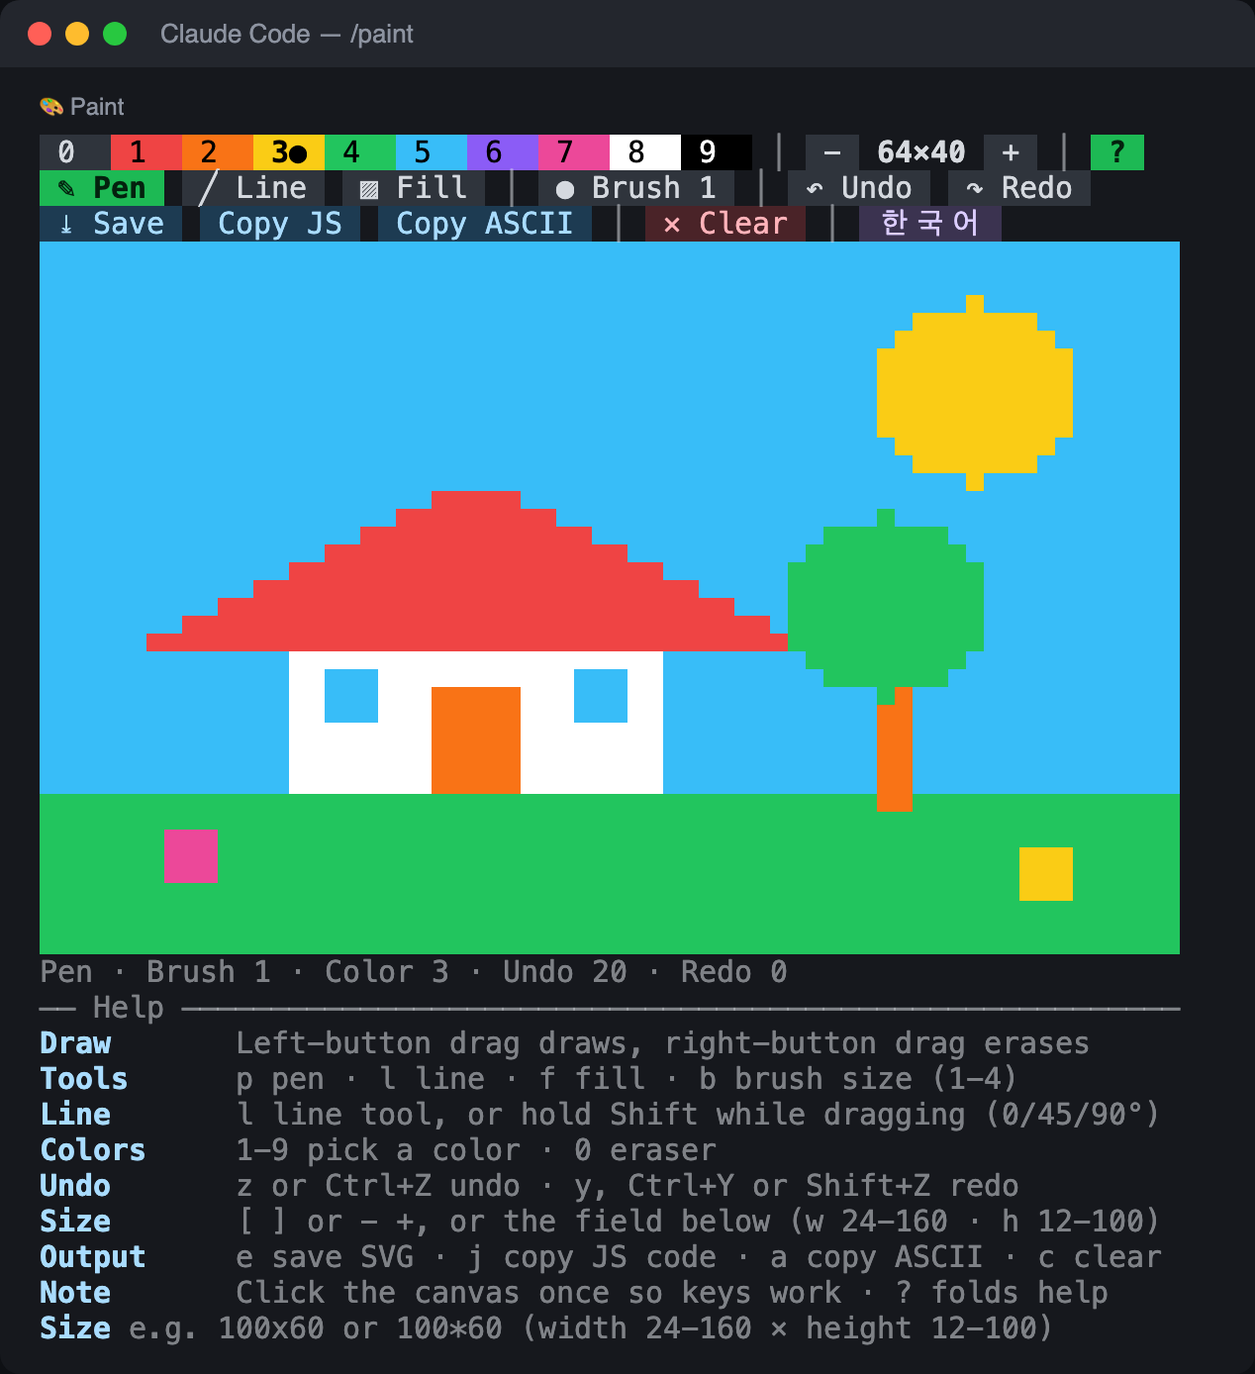
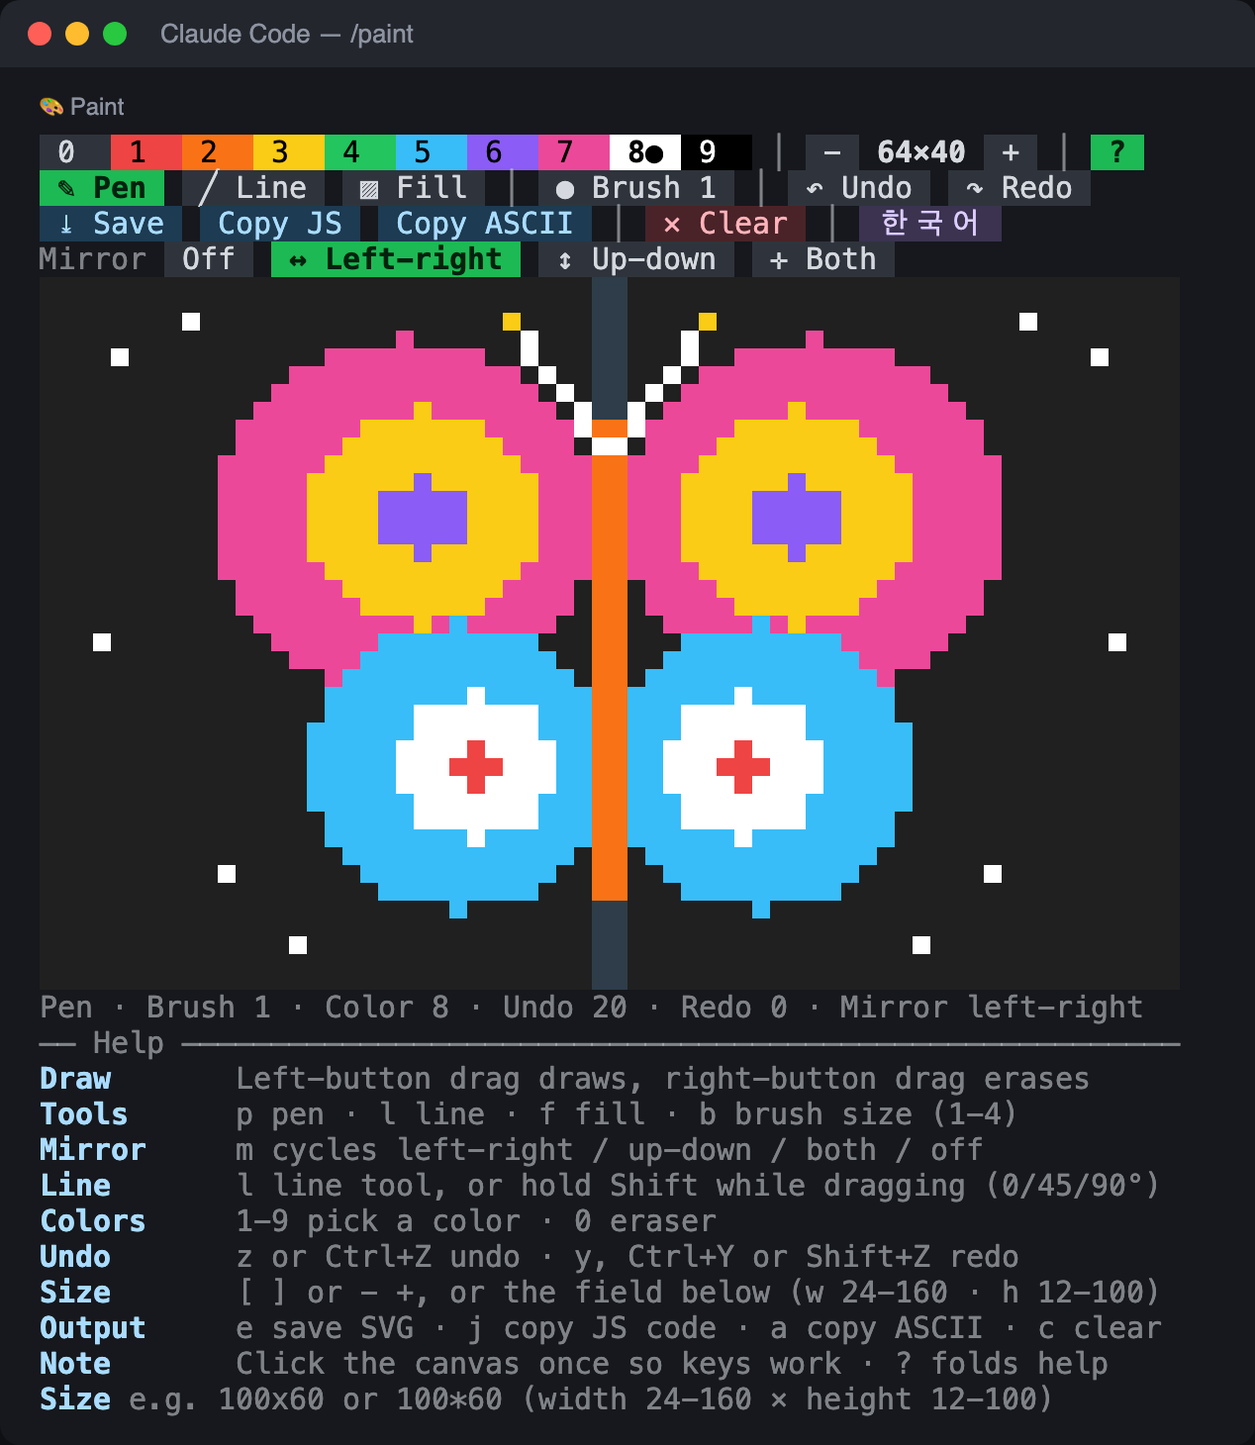
Add mirror mode
Left-right, up-down or both: strokes, lines (with their live preview),
erasing, fills and every brush size are repeated across the middle. The
axis is drawn lighter while it is on. m cycles the modes; a fourth menu
row has a chip for each. Help, status line, README and the preview image
show it.

Also clear the status-line note (saved, copied...) on the next input
instead of leaving it up until another note arrives.

diff --git a/hooks/canvas.ts b/hooks/canvas.ts
@@ -1,6 +1,6 @@
 // The paint canvas, drawn and driven on the surface: pointer down / move / up draw as the
 // mouse is dragged (a line is filled between two moves), keys pick colors and tools.
-//   Layout (cells, region-relative):  row 0 palette · row 1 tools · row 2 export · rows 3.. canvas · last row hint
+//   Layout (cells, region-relative):  row 0 palette · row 1 tools · row 2 file · row 3 mirror · rows 4.. canvas · status row · help
 //   The canvas is pixels, two to a character with a half block (▀: top pixel as the color,
 //   bottom pixel as the background), 1 pixel per column.
 // A surface module runs apart from the hooks module, so it holds its own palette; a test
@@ -10,6 +10,7 @@ import type { ClientPointerEvent } from 'claude-code'
 type Lang = 'ko' | 'en'
 type Props = { w?: number; ph?: number; note?: string; lang?: Lang; help?: boolean }
 type Tool = 'pen' | 'line' | 'fill'
+type Mirror = 'off' | 'lr' | 'ud' | 'both' // lr: left-right, ud: up-down
 type Store = {
   w: number // pixels wide
   ph: number // pixels high, even
@@ -27,10 +28,12 @@ type Store = {
   noteFrom: string
   lang: Lang
   help: boolean // the help block under the canvas is shown
+  mirror: Mirror // strokes, lines and fills are repeated across the middle
 }
 
 const PALETTE = ['', '#ef4444', '#f97316', '#facc15', '#22c55e', '#38bdf8', '#8b5cf6', '#ec4899', '#ffffff', '#000000']
 const EMPTY = '#202020'
+const EMPTY_AXIS = '#2e3d49' // empty pixels on a mirror axis, so the line of symmetry shows
 // Menu colors: tools light up green when chosen, file actions are blue, Clear is red, the language chip purple.
 const UI = {
   chip: '#2f343c', chipText: '#d5d9df',
@@ -40,12 +43,12 @@ const UI = {
   lang: '#3b3350', langText: '#dccdff',
 }
 const SEP = ' │ ' // between groups of chips (3 columns)
-const TOP = 3 // rows above the canvas
+const TOP = 4 // rows above the canvas
 const UNDO_LIMIT = 20
 const PALETTE_CHIP = 4 // columns per palette chip
 // The size limits, in pixels: the hooks module holds the same numbers (a test compares them).
 const LIMITS = { minW: 24, maxW: 160, minPh: 12, maxPh: 100 }
-const HELP_ROWS = 9 // the heading and eight lines; the hooks module sizes the region by this
+const HELP_ROWS = 10 // the heading and nine lines; the hooks module sizes the region by this
 const SWATCHES_END = 10 * PALETTE_CHIP // row 0: the 10 swatches take columns 0-39, then a separator, then the size group
 
 const even = (n: number) => n - (n % 2)
@@ -68,6 +71,7 @@ const TEXT = {
     help: [
       ['그리기', '왼쪽 버튼 드래그 = 그리기, 오른쪽 버튼 = 지우기'],
       ['도구', 'p 펜 · l 직선 · f 채우기 · b 굵기 바꾸기 (1-4)'],
+      ['대칭', 'm 키로 좌우 · 상하 · 4방향 · 끔 (반대쪽에도 찍혀요)'],
       ['직선', 'l 직선 도구, 또는 Shift 누르고 드래그 (가로·세로·45°)'],
       ['색', '1-9 색 고르기 · 0 지우개'],
       ['되돌리기', 'z 또는 Ctrl+Z 되돌리기 · y, Ctrl+Y, Shift+Z 다시'],
@@ -76,7 +80,9 @@ const TEXT = {
       ['참고', '키는 캔버스를 한 번 클릭해야 먹어요 · ? 로 접기'],
     ],
     tools: { pen: '펜', line: '직선', fill: '채우기' },
-    status: (tool: string, brush: number, color: number, undo: number, redo: number) => `${tool} · 굵기 ${brush} · 색 ${color} · 되돌리기 ${undo} · 다시 ${redo}`,
+    mirrorLabel: '대칭', mirrorChips: { off: ' 끔 ', lr: ' ↔ 좌우 ', ud: ' ↕ 상하 ', both: ' ✛ 4방향 ' },
+    mirrorName: { off: '끔', lr: '좌우', ud: '상하', both: '4방향' },
+    status: (tool: string, brush: number, color: number, undo: number, redo: number, mirror: string) => `${tool} · 굵기 ${brush} · 색 ${color} · 되돌리기 ${undo} · 다시 ${redo}${mirror ? ` · 대칭 ${mirror}` : ''}`,
   },
   en: {
     pen: ' ✎ Pen ', line: ' ╱ Line ', fill: ' ▨ Fill ', brush: (n: number) => ` ● Brush ${n} `, undo: ' ↶ Undo ', redo: ' ↷ Redo ', clear: ' ✕ Clear ', save: ' ⤓ Save ',
@@ -86,6 +92,7 @@ const TEXT = {
     help: [
       ['Draw', 'Left-button drag draws, right-button drag erases'],
       ['Tools', 'p pen · l line · f fill · b brush size (1-4)'],
+      ['Mirror', 'm cycles left-right / up-down / both / off'],
       ['Line', 'l line tool, or hold Shift while dragging (0/45/90°)'],
       ['Colors', '1-9 pick a color · 0 eraser'],
       ['Undo', 'z or Ctrl+Z undo · y, Ctrl+Y or Shift+Z redo'],
@@ -94,11 +101,13 @@ const TEXT = {
       ['Note', 'Click the canvas once so keys work · ? folds help'],
     ],
     tools: { pen: 'Pen', line: 'Line', fill: 'Fill' },
-    status: (tool: string, brush: number, color: number, undo: number, redo: number) => `${tool} · Brush ${brush} · Color ${color} · Undo ${undo} · Redo ${redo}`,
+    mirrorLabel: 'Mirror', mirrorChips: { off: ' Off ', lr: ' ↔ Left-right ', ud: ' ↕ Up-down ', both: ' ✛ Both ' },
+    mirrorName: { off: 'off', lr: 'left-right', ud: 'up-down', both: 'both' },
+    status: (tool: string, brush: number, color: number, undo: number, redo: number, mirror: string) => `${tool} · Brush ${brush} · Color ${color} · Undo ${undo} · Redo ${redo}${mirror ? ` · Mirror ${mirror}` : ''}`,
   },
 } as const
 
-type Kind = 'plain' | 'tool' | 'action' | 'danger' | 'lang'
+type Kind = 'plain' | 'tool' | 'action' | 'danger' | 'lang' | 'label'
 type Chip = { id: string; label: string; kind: Kind; on?: boolean }
 
 // The two chip rows as groups: a separator sits between groups, one space between chips in a group.
@@ -123,6 +132,14 @@ const rowFile = (s: Store): Chip[][] => [
   ],
   [{ id: 'clear', label: TEXT[s.lang].clear, kind: 'danger' }],
   [{ id: 'lang', label: TEXT[s.lang].lang, kind: 'lang' }],
+]
+
+// Row 3: the mirror modes, one of them lit; a dim word in front says what the row is.
+const rowMirror = (s: Store): Chip[][] => [
+  [
+    { id: 'label', label: TEXT[s.lang].mirrorLabel, kind: 'label' },
+    ...(['off', 'lr', 'ud', 'both'] as const).map(m => ({ id: `mirror-${m}`, label: TEXT[s.lang].mirrorChips[m], kind: 'tool' as const, on: s.mirror === m })),
+  ],
 ]
 
 /** Where each chip of a row starts and ends (columns). */
@@ -197,14 +214,26 @@ function snap(from: { x: number; y: number }, to: { x: number; y: number }): { x
   return { x: from.x + Math.sign(dx) * m, y: from.y + Math.sign(dy) * m }
 }
 
+/** The points a point is repeated at by the mirror mode (not the point itself): across the middle, left-right and/or up-down. */
+function mirrored(s: Store, x: number, y: number): { x: number; y: number }[] {
+  const lr = s.mirror === 'lr' || s.mirror === 'both'
+  const ud = s.mirror === 'ud' || s.mirror === 'both'
+  const out: { x: number; y: number }[] = []
+  if (lr) out.push({ x: s.w - 1 - x, y })
+  if (ud) out.push({ x, y: s.ph - 1 - y })
+  if (lr && ud) out.push({ x: s.w - 1 - x, y: s.ph - 1 - y })
+  return out
+}
+
+/** One pixel in the current color, and its mirror images. */
+function put(s: Store, x: number, y: number) {
+  for (const q of [{ x, y }, ...mirrored(s, x, y)]) if (q.x >= 0 && q.x < s.w && q.y >= 0 && q.y < s.ph) s.grid[q.y * s.w + q.x] = s.color
+}
+
 function stamp(s: Store, at: { x: number; y: number }) {
   const r = Math.floor((s.brush - 1) / 2)
-  for (let dy = 0; dy < s.brush; dy++)
-    for (let dx = 0; dx < s.brush; dx++) {
-      const x = at.x - r + dx
-      const y = at.y - r + dy
-      if (x >= 0 && x < s.w && y >= 0 && y < s.ph) s.grid[y * s.w + x] = s.color
-    }
+  // each pixel of the brush is mirrored itself, so an even brush mirrors exactly
+  for (let dy = 0; dy < s.brush; dy++) for (let dx = 0; dx < s.brush; dx++) put(s, at.x - r + dx, at.y - r + dy)
 }
 
 function fill(s: Store, at: { x: number; y: number }) {
@@ -224,6 +253,11 @@ function fill(s: Store, at: { x: number; y: number }) {
   }
 }
 
+/** Fill from a point and from each of its mirror images (a region already filled is skipped: its color is now the new one). */
+function fillAll(s: Store, at: { x: number; y: number }) {
+  for (const q of [at, ...mirrored(s, at.x, at.y)]) if (q.x >= 0 && q.x < s.w && q.y >= 0 && q.y < s.ph) fill(s, q)
+}
+
 function pushUndo(s: Store) {
   s.redo = [] // a new change ends the way forward
   s.undo.push(s.grid.slice())
@@ -235,7 +269,7 @@ export default function Paint(props: Props, surface: any) {
   const ph = even(clamp(Math.round(props?.ph ?? 32), LIMITS.minPh, LIMITS.maxPh))
 
   if (surface.state === undefined) {
-    const s: Store = { w, ph, grid: [], color: 1, tool: 'pen', brush: 1, undo: [], redo: [], last: null, start: null, base: null, erasing: false, note: '', noteFrom: '', lang: props?.lang === 'en' ? 'en' : 'ko', help: props?.help !== false }
+    const s: Store = { w, ph, grid: [], color: 1, tool: 'pen', brush: 1, undo: [], redo: [], last: null, start: null, base: null, erasing: false, note: '', noteFrom: '', lang: props?.lang === 'en' ? 'en' : 'ko', help: props?.help !== false, mirror: 'off' }
     reset(s, w, ph)
     let tick = 0
     // the state is a handle on the store the listeners below mutate; a new object asks for a redraw
@@ -265,6 +299,10 @@ export default function Paint(props: Props, surface: any) {
         s.grid = Array<number>(s.w * s.ph).fill(0)
       } else if (id === 'save') {
         surface.post({ save: s.grid.join(''), w: s.w, ph: s.ph })
+      } else if (id === 'mirror') {
+        s.mirror = s.mirror === 'off' ? 'lr' : s.mirror === 'lr' ? 'ud' : s.mirror === 'ud' ? 'both' : 'off'
+      } else if (id.startsWith('mirror-')) {
+        s.mirror = id.slice('mirror-'.length) as Mirror
       } else if (id === 'help') {
         // the region's height depends on it, and that is the hooks module's to set
         surface.post({ help: !s.help, w: s.w, ph: s.ph })
@@ -280,6 +318,7 @@ export default function Paint(props: Props, surface: any) {
     }
 
     surface.onPointer((e: ClientPointerEvent) => {
+      if (e.type === 'down') s.note = '' // a note (saved, copied...) stays until the next thing you do
       if (e.type === 'up' || e.type === 'leave') {
         s.last = null
         s.start = null
@@ -296,7 +335,7 @@ export default function Paint(props: Props, surface: any) {
           else if (x >= size.bigger.from && x < size.bigger.to) act('bigger')
           else if (x >= size.help.from && x < size.help.to) act('help')
         } else {
-          const hit = layout(e.y === 1 ? rowTools(s) : rowFile(s)).find(t => x >= t.from && x < t.to)
+          const hit = layout(e.y === 1 ? rowTools(s) : e.y === 2 ? rowFile(s) : rowMirror(s)).find(t => t.id !== 'label' && x >= t.from && x < t.to)
           if (hit) act(hit.id)
         }
         return
@@ -309,7 +348,7 @@ export default function Paint(props: Props, surface: any) {
         const erase = e.button === 'right'
         const keep = s.color
         if (erase) s.color = 0
-        if (s.tool === 'fill' && !erase) fill(s, p)
+        if (s.tool === 'fill' && !erase) fillAll(s, p)
         else stamp(s, p)
         if (erase) s.color = keep
         s.last = s.tool === 'fill' && !erase ? null : p
@@ -342,6 +381,7 @@ export default function Paint(props: Props, surface: any) {
     })
 
     surface.onKey((e: { key: string; ctrl?: true; meta?: true; shift?: true }) => {
+      s.note = ''
       const k = e.key.toLowerCase()
       if (e.ctrl || e.meta) {
         // Ctrl+Z undoes, Ctrl+Y (or Ctrl+Shift+Z where the terminal says Shift) redoes; Cmd likewise. Nothing else with a modifier.
@@ -353,6 +393,7 @@ export default function Paint(props: Props, surface: any) {
       else if (k === 'p') act('pen')
       else if (k === 'l') act('line')
       else if (k === 'f') act('fill')
+      else if (k === 'm') act('mirror')
       else if (k === 'b') act('brush')
       else if (k === 'z') act(e.shift ? 'redo' : 'undo') // z undoes, Shift+Z or y redoes
       else if (k === 'y') act('redo')
@@ -378,6 +419,15 @@ export default function Paint(props: Props, surface: any) {
   return view(s, surface)
 }
 
+/** The color of an empty pixel: a little lighter on the line(s) of symmetry while mirroring. */
+function guide(s: Store, x: number, y: number): string {
+  const lr = s.mirror === 'lr' || s.mirror === 'both'
+  const ud = s.mirror === 'ud' || s.mirror === 'both'
+  const onX = lr && (x === Math.floor((s.w - 1) / 2) || x === Math.ceil((s.w - 1) / 2))
+  const onY = ud && (y === Math.floor((s.ph - 1) / 2) || y === Math.ceil((s.ph - 1) / 2))
+  return onX || onY ? EMPTY_AXIS : EMPTY
+}
+
 function view(s: Store, surface: any) {
   const { Box, Text } = surface.elements
 
@@ -387,6 +437,7 @@ function view(s: Store, surface: any) {
     : c.kind === 'action' ? { backgroundColor: UI.action, color: UI.actionText }
     : c.kind === 'danger' ? { backgroundColor: UI.danger, color: UI.dangerText }
     : c.kind === 'lang' ? { backgroundColor: UI.lang, color: UI.langText }
+    : c.kind === 'label' ? { dimColor: true }
     : { backgroundColor: UI.chip, color: UI.chipText }
   const chipRow = (groups: Chip[][]) =>
     Text({
@@ -419,6 +470,7 @@ function view(s: Store, surface: any) {
   })
   const toolsRow = chipRow(rowTools(s))
   const exportRow = chipRow(rowFile(s))
+  const mirrorRow = chipRow(rowMirror(s))
 
   const rows: unknown[] = []
   for (let r = 0; r < s.ph; r += 2) {
@@ -426,11 +478,10 @@ function view(s: Store, surface: any) {
     for (let x = 0; x < s.w; x++) {
       const top = s.grid[r * s.w + x] ?? 0
       const bottom = s.grid[(r + 1) * s.w + x] ?? 0
-      const cell =
-        top === bottom ? { text: ' ', bg: top ? PALETTE[top]! : EMPTY }
-        : !top ? { text: '▄', color: PALETTE[bottom]!, bg: EMPTY }
-        : !bottom ? { text: '▀', color: PALETTE[top]!, bg: EMPTY }
-        : { text: '▀', color: PALETTE[top]!, bg: PALETTE[bottom]! }
+      const topColor = top ? PALETTE[top]! : guide(s, x, r)
+      const bottomColor = bottom ? PALETTE[bottom]! : guide(s, x, r + 1)
+      // two pixels in one character: the top one is the color of a half block, the bottom one its background
+      const cell = topColor === bottomColor ? { text: ' ', bg: topColor } : { text: '▀', color: topColor, bg: bottomColor }
       const last = runs[runs.length - 1]
       if (last && last.color === (cell as any).color && last.bg === cell.bg) last.text += cell.text
       else runs.push({ ...cell } as any)
@@ -439,7 +490,7 @@ function view(s: Store, surface: any) {
   }
 
   const t = TEXT[s.lang]
-  const status = s.note || (s.help ? t.status(t.tools[s.tool], s.brush, s.color, s.undo.length, s.redo.length) : t.hint)
+  const status = s.note || (s.help ? t.status(t.tools[s.tool], s.brush, s.color, s.undo.length, s.redo.length, s.mirror === 'off' ? '' : t.mirrorName[s.mirror]) : t.hint)
 
   // The help block: a heading rule, then a label column and its text, one line each.
   const LABEL = 11
@@ -455,6 +506,6 @@ function view(s: Store, surface: any) {
 
   return Box({
     flexDirection: 'column',
-    children: [palette, toolsRow, exportRow, ...rows, Text({ dimColor: !s.note, bold: !!s.note, wrap: 'truncate-end', children: [status] }), ...helpRows],
+    children: [palette, toolsRow, exportRow, mirrorRow, ...rows, Text({ dimColor: !s.note, bold: !!s.note, wrap: 'truncate-end', children: [status] }), ...helpRows],
   })
 }

diff --git a/hooks/register.ts b/hooks/register.ts
@@ -32,11 +32,11 @@ export function stepSize(from: { w: number; ph: number }, dir: 1 | -1, maxW: num
 }
 
 // Rows the help block under the canvas takes (canvas.ts draws exactly this many while it is open).
-export const HELP_ROWS = 9
+export const HELP_ROWS = 10
 let helpOpen = true
 
-// The pane's rows: the canvas, its 3 chip rows and status line, the size field, and the help block when open.
-const paneRows = (ph: number) => ph / 2 + 7 + (helpOpen ? HELP_ROWS : 0)
+// The pane's rows: the canvas, its 4 menu rows and status line, the size field, and the help block when open.
+const paneRows = (ph: number) => ph / 2 + 8 + (helpOpen ? HELP_ROWS : 0)
 
 export type Lang = 'ko' | 'en'
 let lang: Lang = 'ko'
@@ -240,7 +240,7 @@ export const register: Register = on => {
     return Box({
       flexDirection: 'column',
       children: [
-        Client({ key: 'canvas', module: './canvas.ts', props: props(), width: Math.max(size.w, MENU_WIDTH), height: size.ph / 2 + 4 + (helpOpen ? HELP_ROWS : 0) }),
+        Client({ key: 'canvas', module: './canvas.ts', props: props(), width: Math.max(size.w, MENU_WIDTH), height: size.ph / 2 + 5 + (helpOpen ? HELP_ROWS : 0) }),
         Input({
           key: 'size',
           label: MSG[lang].sizeLabel,

diff --git a/README.md b/README.md
@@ -4,15 +4,16 @@ A paint canvas that lives in a [Claude Code](https://claude.com/claude-code) pan
 
 - Drag to draw (left button), drag with the right button to erase
 - Palette of 9 colors plus an eraser, brush sizes 1-4, flood fill, straight lines
+- **Mirror mode**: draw one half and the other half follows (left-right, up-down, or both)
 - Undo / redo (20 steps), resizable canvas, English and Korean
 - Save as SVG, or copy the drawing as a JS/TS array or as ASCII art
-- A help block with all the shortcuts sits under the canvas (fold it with `?`)
+- A help block with all the shortcuts sits under the canvas (fold it with `?`); the status line shows the tool, brush, color, undo depth and mirror mode
 
 <p align="center">
-  <img src="docs/preview.png" alt="The paint pane: a menu of colors and tools, a small pixel-art house scene on the canvas, and the help block below" width="560">
+  <img src="docs/preview.png" alt="The paint pane in left-right mirror mode: a symmetric pixel-art butterfly drawn on the left half only, with the Mirror menu row, the status line and the help block" width="560">
 </p>
 
-<p align="center"><sub><b>Preview, not a terminal capture:</b> rendered from the mod's own drawing code, with the sample picture drawn through its mouse handlers. Fonts and colors will differ in your terminal.</sub></p>
+<p align="center"><sub><b>Preview, not a terminal capture:</b> rendered from the mod's own drawing code, with the butterfly drawn through its mouse handlers on the left half only (mirror mode on). Fonts and colors will differ in your terminal.</sub></p>
 
 > **Status: early (0.9).** It was built against Claude Code's mod API and tested with a simulated engine and the API's type definitions. How mouse drags, `Shift` and `Ctrl+Z` reach it depends on your terminal (see [Terminals](#terminals)). Issues and reports of what works where are welcome.
 
@@ -33,6 +34,7 @@ A paint canvas that lives in a [Claude Code](https://claude.com/claude-code) pan
 | Draw / erase | drag with the left / right mouse button |
 | Colors | `1`-`9`, `0` is the eraser (or click the swatches) |
 | Tools | `p` pen, `l` line, `f` fill, `b` brush size (1-4) |
+| Mirror | `m` cycles off → left-right → up-down → both → off, or click the chips on the fourth menu row |
 | Straight line | the `Line` tool (`l`), or hold `Shift` while dragging (snaps to 0 / 45 / 90°) |
 | Undo / redo | `z` or `Ctrl+Z` / `y`, `Ctrl+Y` or `Shift+Z` |
 | Clear | `c` (undoable) |
@@ -43,6 +45,18 @@ A paint canvas that lives in a [Claude Code](https://claude.com/claude-code) pan
 | Language | the chip at the end of the third row, or `/paint en` / `/paint ko` (Korean is the default) |
 
 The last JS/ASCII export can be printed in the chat with `/paint export`. If the terminal has no clipboard path, exports are written to `~/Pictures` instead.
+
+### Mirror mode
+
+Turn it on with `m` (or click a chip on the **Mirror** row) and everything you do is repeated across the middle of the canvas:
+
+| Mode | What is repeated |
+|---|---|
+| Left-right | each pixel also appears on the other side of the vertical center line |
+| Up-down | the same across the horizontal center line |
+| Both | all four corners: a pixel and its three images |
+
+It covers drags with the pen, the `Line` tool (including `Shift` lines and the live preview), erasing with the right button, flood fill (it fills the mirror image's region too) and every brush size (an even brush mirrors pixel for pixel). While it is on, the empty pixels on the axis are drawn a little lighter so you can see where the middle is, and the status line says which mode is active. One undo removes a whole mirrored stroke. Mirror mode is a setting, not a drawing step: it is not part of undo, and resizing the canvas keeps it.
 
 ### Canvas size
 
@@ -91,8 +105,12 @@ From the mod API's own report of what the code calls: it reads the `HOME` enviro
 패널을 그림판처럼 씁니다. `/paint` 로 열고 마우스를 끌어서 그립니다.
 
 - 왼쪽 버튼으로 그리고, 오른쪽 버튼으로 지웁니다. 위쪽 줄에서 색(0은 지우개)과 도구를 클릭하거나, 캔버스를 한 번 클릭한 뒤 키로 고릅니다.
-- 키: `1`-`9` 색, `0` 지우개, `p` 펜, `l` 직선, `f` 채우기, `b` 굵기(1-4), `z` 되돌리기(`Ctrl+Z`도 돼요), `y` 다시 실행(`Ctrl+Y`, `Shift+Z`), `c` 지우기, `e` 저장
+- 키: `1`-`9` 색, `0` 지우개, `p` 펜, `l` 직선, `f` 채우기, `m` 대칭, `b` 굵기(1-4), `z` 되돌리기(`Ctrl+Z`도 돼요), `y` 다시 실행(`Ctrl+Y`, `Shift+Z`), `c` 지우기, `e` 저장
 - 직선: `직선` 도구(`l`)는 누른 곳에서 끌고 있는 곳까지 곧은 선을 그려요. 펜이나 직선 도구에서 `Shift` 를 누른 채 끌면 가로·세로·45° 중 가까운 쪽으로 맞춰져요. (터미널에 따라 Shift+드래그는 텍스트 선택에 쓰여서 프로그램에 안 넘어올 수 있어요. 그럴 땐 `직선` 도구를 쓰세요.)
+- 대칭(미러) 모드: `m` 키나 네 번째 메뉴 줄의 칩으로 켜면, 칠하는 모든 것이 캔버스 가운데를 기준으로 반대쪽에도 똑같이 찍혀요.
+  - 모드는 `좌우`, `상하`, `4방향`이에요. `m` 을 누를 때마다 좌우 → 상하 → 4방향 → 끔 순서로 바뀌어요.
+  - 펜, 직선 도구(Shift 직선과 미리보기 포함), 오른쪽 버튼 지우개, 채우기(반대쪽 영역도 함께 채워요), 모든 굵기가 대칭으로 동작해요.
+  - 켜 있는 동안 가운데 줄(축)의 빈 픽셀이 조금 밝게 보이고, 상태 줄에 `대칭 좌우` 같은 표시가 나와요. 한 번 되돌리기로 대칭 획 전체가 사라져요. 대칭 설정은 되돌리기 대상이 아니에요.
 - 캔버스 아래에 도움말(단축키 목록)이 있어요. `?`(또는 `h`) 키나 첫 줄 끝의 `?` 칩으로 접고 펼쳐요.
 - 저장하면 `~/Pictures/paint-날짜.svg` 가 만들어집니다.
 - 크기: `−` `+` 칩, `[` `]` 키, `/paint 100x60`, 또는 캔버스 아래 입력칸에 직접 입력해요. 구분은 `x`, `*`, `×`, 공백 모두 돼요 (`100x60`, `100*60`, `100 60`).
